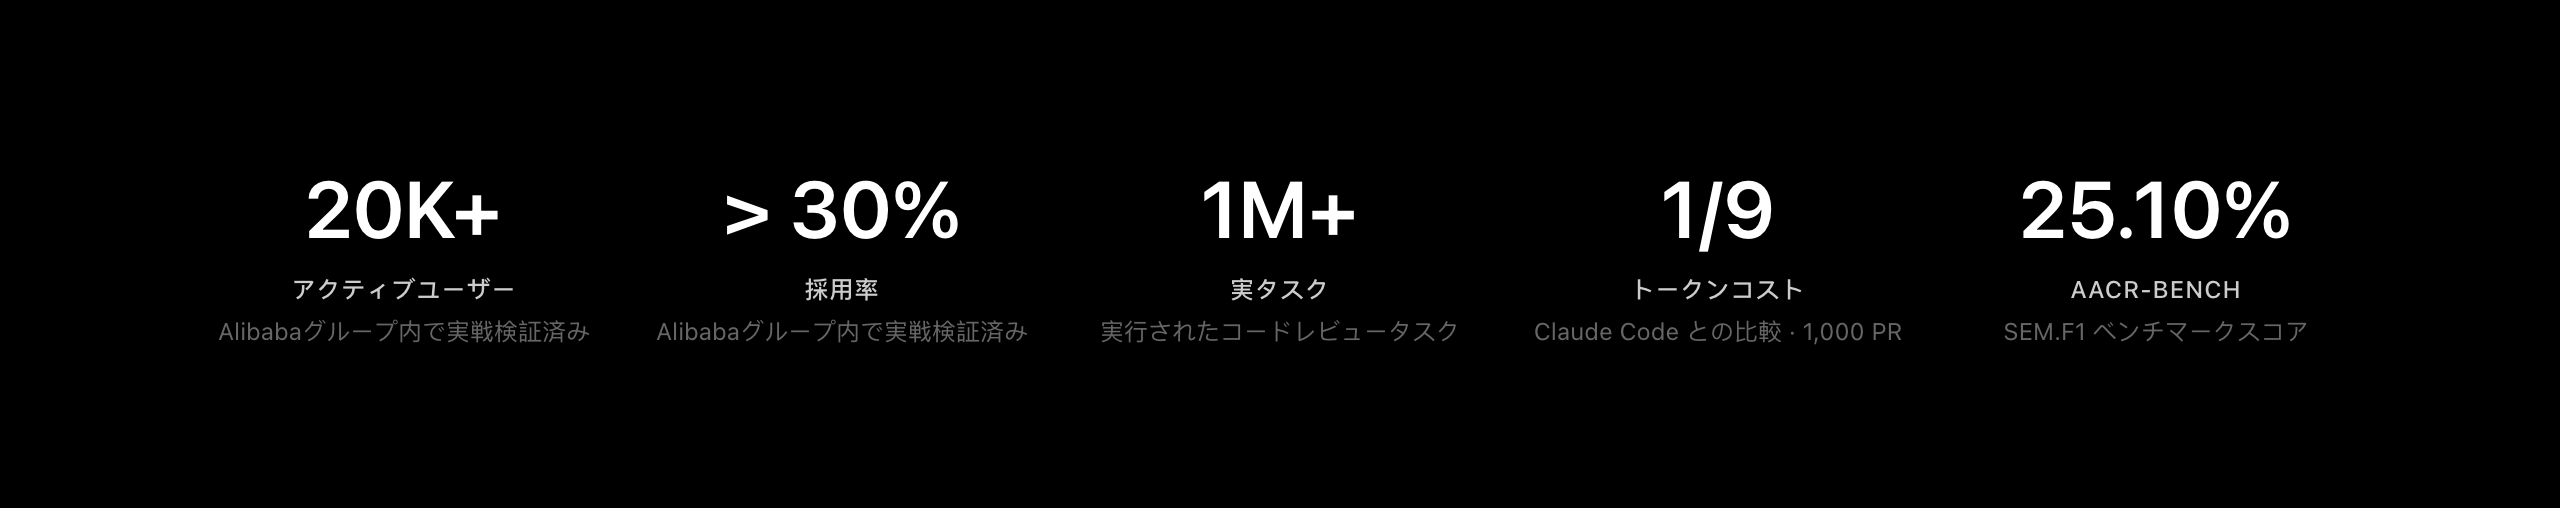
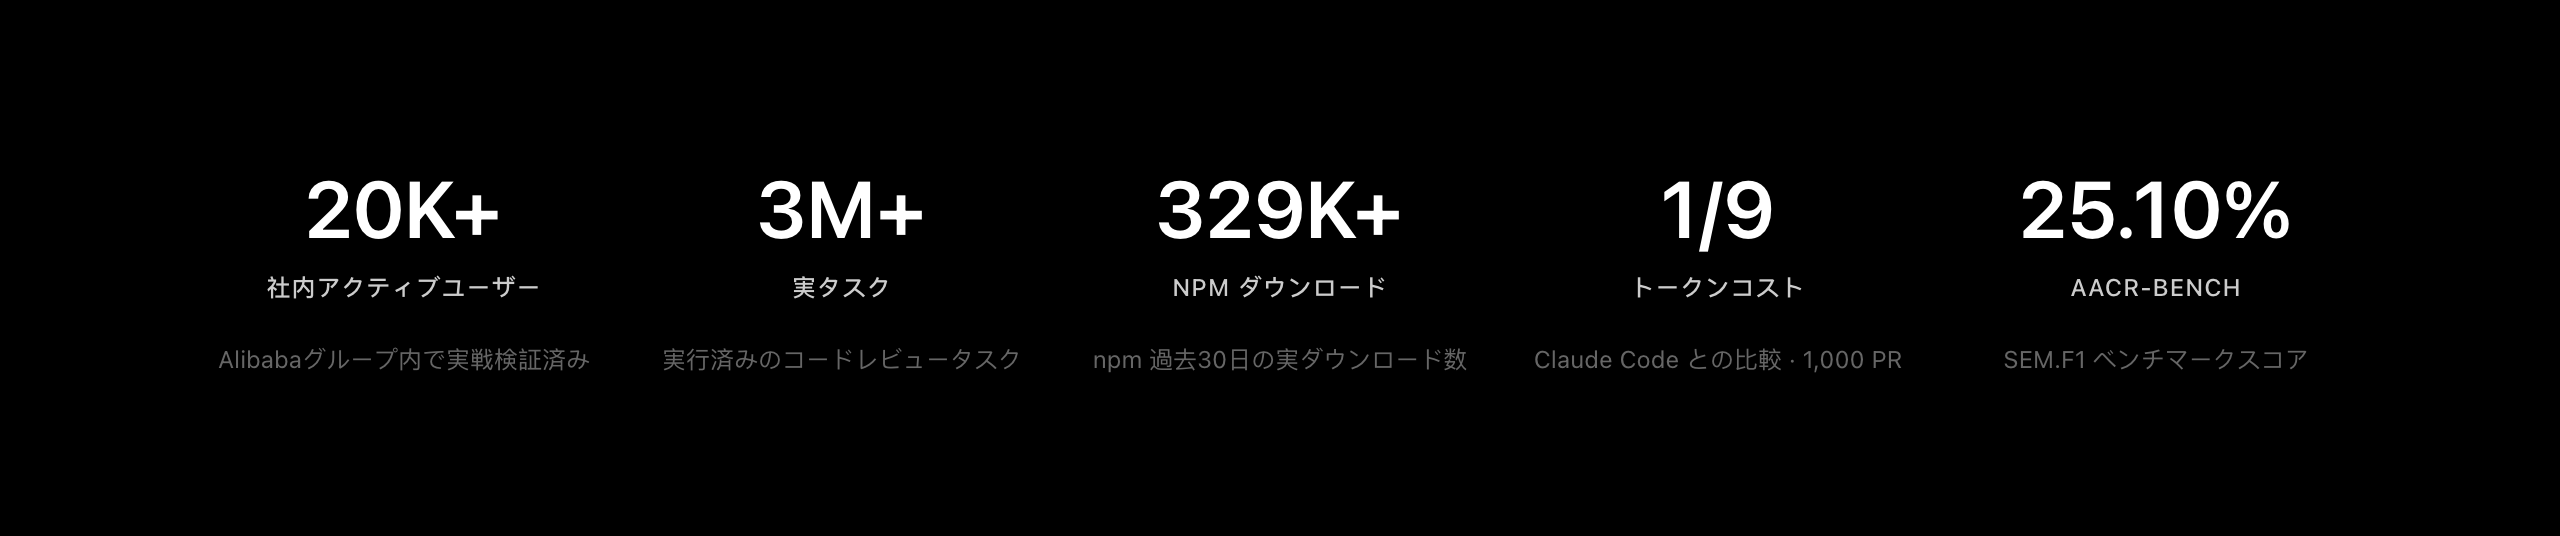
docs: tidy repo root and refresh screenshots; fix highlights label alignment (#1260)
* docs: refresh landing screenshots and add Korean

Regenerate the highlights and benchmark images for en/ja/ru/zh and add the Korean (ko) variants now that the site ships a Korean locale.

* docs: move localized README and CONTRIBUTING into docs/i18n/

The repo root listed five READMEs and five CONTRIBUTING files. Move the four translations of each into docs/i18n/ so only the English entry points remain in the root, and update every reference: the language switchers in the English files, the documentation-file table in CONTRIBUTING.md, the README sync rule in AGENTS.md, the README_FILES paths in the translation-sync checker, and the docs/i18n/** path trigger in the workflow. Relative links inside the moved files are rewritten to resolve from their new location.

* chore: move SECURITY.md into .github/

GitHub still surfaces the Security policy when SECURITY.md lives under .github/, matching projects like kubernetes and vite. Update the two links in GOVERNANCE.md to the new path.

* fix(pages): keep highlights stat labels aligned across locales
[…]

diff --git a/scripts/github-actions/check-translation-sync.js b/scripts/github-actions/check-translation-sync.js
@@ -34,13 +34,15 @@ const path = require("path");
 const { execFileSync } = require("child_process");
 
 // The five localized README files. README.md (English) is the reference every
-// translation is compared against. Discovered names confirmed in the repo root.
+// translation is compared against. The English entry point stays in the repo
+// root; the four translations live under docs/i18n/ to keep the root listing
+// small (paths are relative to the repo root, joined with repoRoot below).
 const README_FILES = [
   "README.md",
-  "README.zh-CN.md",
-  "README.ja-JP.md",
-  "README.ko-KR.md",
-  "README.ru-RU.md",
+  "docs/i18n/README.zh-CN.md",
+  "docs/i18n/README.ja-JP.md",
+  "docs/i18n/README.ko-KR.md",
+  "docs/i18n/README.ru-RU.md",
 ];
 
 // Docs live under pages/src/content/docs/<locale>/**. English is authored under

diff --git a/pages/src/i18n/ru.ts b/pages/src/i18n/ru.ts
@@ -43,7 +43,7 @@ export const ru: TranslationKeys = {
   'highlights.stat1Label': 'ВНУТРЕННИЕ АКТИВНЫЕ ПОЛЬЗОВАТЕЛИ',
   'highlights.stat1Caption': 'в Alibaba Group',
   'highlights.stat2Value': '150K+',
-  'highlights.stat2Label': 'ЗАГРУЗКИ СООБЩЕСТВА NPM',
+  'highlights.stat2Label': 'ЗАГРУЗКИ NPM',
   'highlights.stat2Caption': 'реальные загрузки npm · 30 дней',
   'highlights.stat3Value': '3M+',
   'highlights.stat3Label': 'РЕАЛЬНЫХ ЗАДАЧ',

diff --git a/pages/src/components/HighlightsSection.tsx b/pages/src/components/HighlightsSection.tsx
@@ -159,6 +159,11 @@ const HighlightsSection: React.FC = () => {
                   fontWeight: 500,
                   letterSpacing: '0.5px',
                   textTransform: 'uppercase',
+                  textAlign: 'center',
+                  lineHeight: '16px',
+                  // Reserve two lines so a label that wraps (long locales such
+                  // as en/ru) keeps every column's caption on the same baseline.
+                  minHeight: 32,
                   margin: 0,
                 }}
               >

diff --git a/pages/src/i18n/ja.ts b/pages/src/i18n/ja.ts
@@ -43,7 +43,7 @@ export const ja: TranslationKeys = {
   'highlights.stat1Label': '社内アクティブユーザー',
   'highlights.stat1Caption': 'Alibabaグループ内で実戦検証済み',
   'highlights.stat2Value': '150K+',
-  'highlights.stat2Label': 'NPM コミュニティダウンロード',
+  'highlights.stat2Label': 'NPM ダウンロード',
   'highlights.stat2Caption': 'npm 過去30日の実ダウンロード数',
   'highlights.stat3Value': '3M+',
   'highlights.stat3Label': '実タスク',

diff --git a/pages/src/i18n/ko.ts b/pages/src/i18n/ko.ts
@@ -43,7 +43,7 @@ export const ko: TranslationKeys = {
   'highlights.stat1Label': '사내 활성 사용자',
   'highlights.stat1Caption': 'Alibaba 그룹 내부에서 실전 검증',
   'highlights.stat2Value': '150K+',
-  'highlights.stat2Label': 'NPM 커뮤니티 다운로드',
+  'highlights.stat2Label': 'NPM 다운로드',
   'highlights.stat2Caption': '실제 npm 다운로드 수 · 최근 30일',
   'highlights.stat3Value': '3M+',
   'highlights.stat3Label': '실제 작업',

diff --git a/pages/src/i18n/zh.ts b/pages/src/i18n/zh.ts
@@ -43,7 +43,7 @@ export const zh: TranslationKeys = {
   'highlights.stat1Label': '内部活跃用户',
   'highlights.stat1Caption': '经阿里巴巴集团内部实战验证',
   'highlights.stat2Value': '150K+',
-  'highlights.stat2Label': 'NPM 社区下载量',
+  'highlights.stat2Label': 'NPM 下载量',
   'highlights.stat2Caption': 'npm 近 30 天真实下载',
   'highlights.stat3Value': '3M+',
   'highlights.stat3Label': '真实任务',

diff --git a/pages/src/i18n/en.ts b/pages/src/i18n/en.ts
@@ -41,7 +41,7 @@ export const en = {
   'highlights.stat1Label': 'INTERNAL ACTIVE USERS',
   'highlights.stat1Caption': 'Battle-tested inside Alibaba Group',
   'highlights.stat2Value': '150K+',
-  'highlights.stat2Label': 'NPM COMMUNITY DOWNLOADS',
+  'highlights.stat2Label': 'NPM DOWNLOADS',
   'highlights.stat2Caption': 'Real npm downloads · last 30 days',
   'highlights.stat3Value': '3M+',
   'highlights.stat3Label': 'REAL-WORLD TASKS',

diff --git a/scripts/verify-english-only.go b/scripts/verify-english-only.go
@@ -9,8 +9,8 @@
 // Comments, identifiers and user-visible strings in this repository are written
 // in English so that any contributor can review and maintain every file,
 // whichever languages they happen to read. Translated content belongs in the
-// locale-specific docs (README.zh-CN.md, pages/src/content/docs/zh/…) and in
-// the i18n tables, not in code.
+// locale-specific docs (docs/i18n/README.zh-CN.md, pages/src/content/docs/zh/…)
+// and in the i18n tables, not in code.
 //
 // What it detects, and the one thing it cannot:
 //
@@ -246,7 +246,7 @@ func run() error {
 		}
 		fmt.Fprintf(os.Stderr, `
 Source files are English-only: comments, identifiers and strings alike.
-Translated prose belongs in README.<locale>.md, pages/src/content/docs/<locale>/
+Translated prose belongs in docs/i18n/README.<locale>.md, pages/src/content/docs/<locale>/
 or an i18n table.
 
 If the non-English text is intentional — an encoding fixture, a

diff --git a/docs/i18n/CONTRIBUTING.ru-RU.md b/docs/i18n/CONTRIBUTING.ru-RU.md
@@ -2,7 +2,7 @@
 
 Спасибо за интерес к развитию OpenCodeReview! Важен любой вклад — будь то исправленная опечатка, сообщение о баге или новая функциональность.
 
-[English](CONTRIBUTING.md) | [简体中文版](CONTRIBUTING.zh-CN.md) | [日本語版](CONTRIBUTING.ja-JP.md) | [한국어](CONTRIBUTING.ko-KR.md) | Русский
+[English](../../CONTRIBUTING.md) | [简体中文版](CONTRIBUTING.zh-CN.md) | [日本語版](CONTRIBUTING.ja-JP.md) | [한국어](CONTRIBUTING.ko-KR.md) | Русский
 
 ## Кодекс поведения
 
@@ -163,7 +163,7 @@ make build
 - Прояснение запутанных объяснений и добавление недостающего контекста
 - Добавление примеров использования команд и параметров конфигурации
 - Обновление устаревшего содержимого (например, после изменения функциональности)
-- Перевод и улучшение локализованной документации (`README.zh-CN.md`, `README.ja-JP.md`, `README.ko-KR.md`, `README.ru-RU.md`, `CONTRIBUTING.zh-CN.md`, `CONTRIBUTING.ja-JP.md`, `CONTRIBUTING.ko-KR.md`, `CONTRIBUTING.ru-RU.md`)
+- Перевод и улучшение локализованной документации (`docs/i18n/README.zh-CN.md`, `docs/i18n/README.ja-JP.md`, `docs/i18n/README.ko-KR.md`, `docs/i18n/README.ru-RU.md`, `docs/i18n/CONTRIBUTING.zh-CN.md`, `docs/i18n/CONTRIBUTING.ja-JP.md`, `docs/i18n/CONTRIBUTING.ko-KR.md`, `docs/i18n/CONTRIBUTING.ru-RU.md`)
 
 ### Процесс работы с документацией
 
@@ -173,18 +173,18 @@ make build
 
 ### Файлы документации
 
-| Файл                    | Назначение                                  |
-| ----------------------- | ------------------------------------------- |
-| `README.md`             | Основная документация проекта (английский)  |
-| `README.zh-CN.md`       | Китайский перевод                           |
-| `README.ja-JP.md`       | Японский перевод                            |
-| `README.ko-KR.md`       | Корейский перевод                           |
-| `README.ru-RU.md`       | Русский перевод                             |
-| `CONTRIBUTING.md`       | Руководство контрибьютора (английский)      |
-| `CONTRIBUTING.zh-CN.md` | Руководство контрибьютора (китайский)       |
-| `CONTRIBUTING.ja-JP.md` | Руководство контрибьютора (японский)        |
-| `CONTRIBUTING.ko-KR.md` | Руководство контрибьютора (корейский)       |
-| `CONTRIBUTING.ru-RU.md` | Руководство контрибьютора (русский)         |
+| Файл                              | Назначение                                 |
+| --------------------------------- | ------------------------------------------ |
+| `README.md`                       | Основная документация проекта (английский) |
+| `docs/i18n/README.zh-CN.md`       | Китайский перевод                          |
+| `docs/i18n/README.ja-JP.md`       | Японский перевод                           |
+| `docs/i18n/README.ko-KR.md`       | Корейский перевод                          |
+| `docs/i18n/README.ru-RU.md`       | Русский перевод                            |
+| `CONTRIBUTING.md`                 | Руководство контрибьютора (английский)     |
+| `docs/i18n/CONTRIBUTING.zh-CN.md` | Руководство контрибьютора (китайский)      |
+| `docs/i18n/CONTRIBUTING.ja-JP.md` | Руководство контрибьютора (японский)       |
+| `docs/i18n/CONTRIBUTING.ko-KR.md` | Руководство контрибьютора (корейский)      |
+| `docs/i18n/CONTRIBUTING.ru-RU.md` | Руководство контрибьютора (русский)        |
 
 ## Отправка изменений
 
@@ -261,4 +261,4 @@ feat(agent): add support for custom tool definitions
 
 ## Лицензия
 
-Внося вклад в OpenCodeReview, вы соглашаетесь с тем, что ваш вклад будет лицензирован на условиях [Apache License 2.0](LICENSE).
+Внося вклад в OpenCodeReview, вы соглашаетесь с тем, что ваш вклад будет лицензирован на условиях [Apache License 2.0](../../LICENSE).
